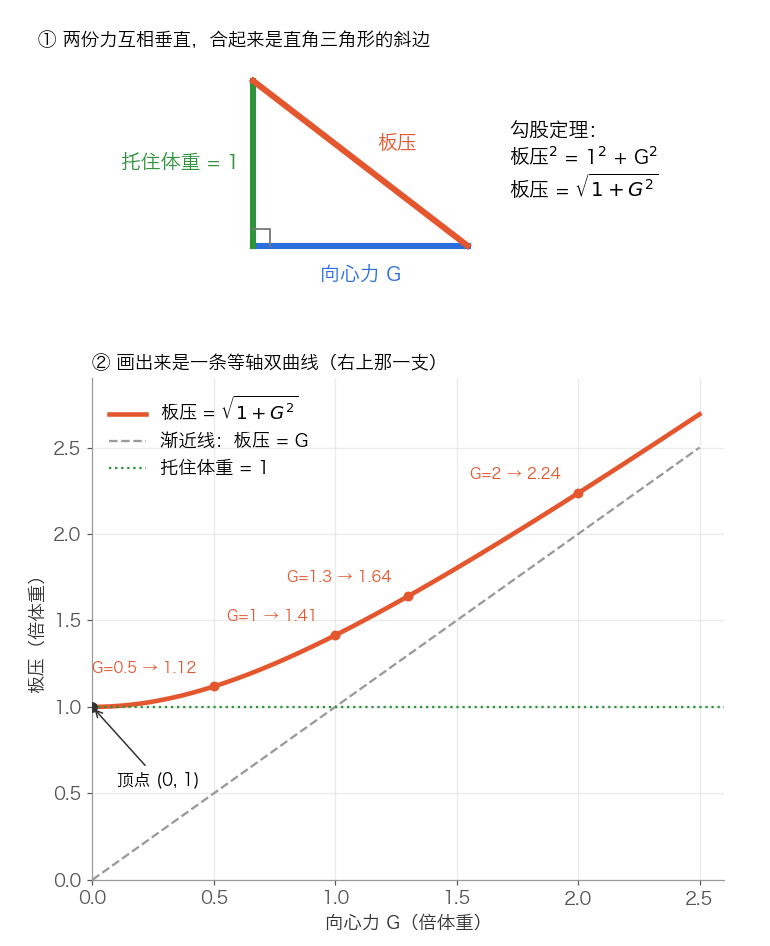
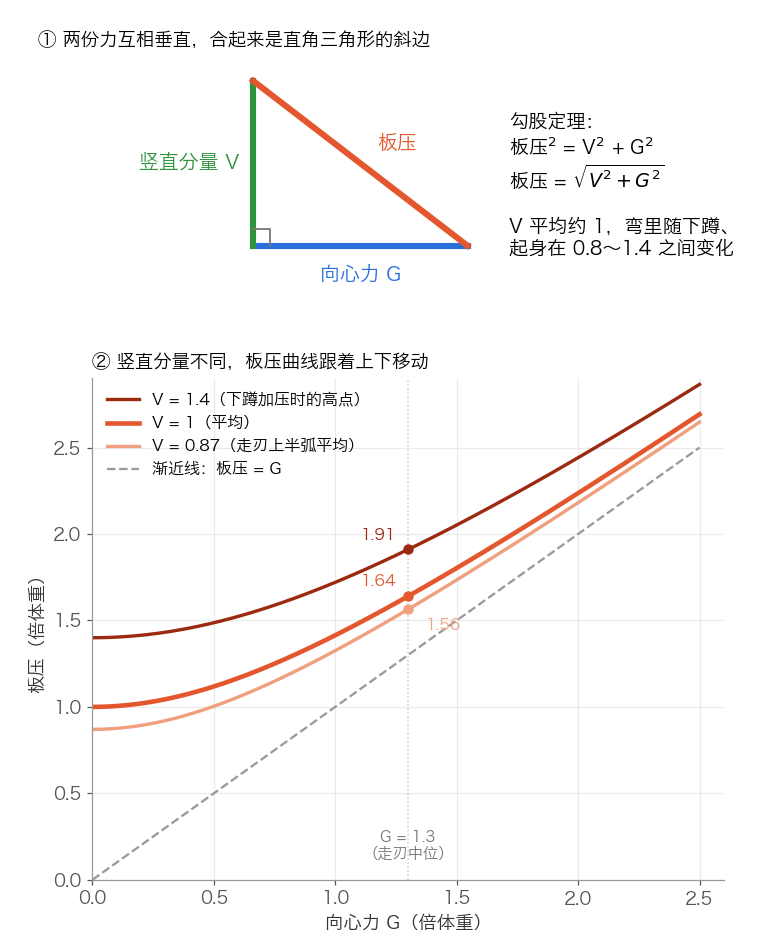
board pressure curve uses vertical component V (family of curves)

diff --git a/index.html b/index.html
@@ -97,22 +97,22 @@
     <div class="formula">板压 = √(竖直分量² + 向心力²) 倍体重</div>
     <p>竖直的一份平均下来约等于体重（1 倍），但在弯里会随下蹲、伸展上下变化：屈膝下压时变重，起身时变轻，这就是专题第 14 页「体重秤」讲的那部分额外压力。我们的数据里，走刃时上半弧竖直分量平均约 0.87 倍体重，下半弧约 0.98 倍，弯里最高可以超过 1.4 倍。</p>
     <img src="img/f1a_force.png?v=2" alt="从滑手身后看一个左转的弯：雪对板的支撑力拆成托住体重和向心力两部分" loading="lazy">
-    <p>下面先把竖直分量按平均值 1 倍体重来看，方便理解两者的关系：</p>
-    <img src="img/f1b_curve.png" alt="勾股三角形与等轴双曲线：板压 = √(1 + 向心力²)" loading="lazy">
+    <p>竖直分量不是固定的，所以板压和向心力的关系不是一条线，而是一组随竖直分量上下移动的曲线：</p>
+    <img src="img/f1b_curve.png?v=2" alt="勾股三角形与一组板压曲线：板压 = √(竖直分量² + 向心力²)" loading="lazy">
     <div class="math">
-      <p><b>这是一条什么曲线？</b>两份力互相垂直，所以板压就是直角三角形的斜边（勾股定理）。把公式两边平方：</p>
-      <div class="formula">板压² − 向心力² = 1</div>
-      <p>这是一条<b>等轴双曲线</b>：两条轴一样长（都是 1），对称轴是纵轴，开口朝上下。这里只用到右上那一支（向心力 ≥ 0，板压 ≥ 1）。它有三个好记的特点：</p>
+      <p><b>怎么读这张图？</b>两份力互相垂直，板压就是直角三角形的斜边（勾股定理）。竖直分量 V 每变一次，曲线就整体上下挪一档。它有三个好记的特点：</p>
       <ul>
-        <li><b>顶点在 (0, 1)</b>：不转弯时，板压就是自己的体重。</li>
-        <li><b>起步很平</b>：向心力小的时候，板压 ≈ 1 + 向心力² ÷ 2，轻轻转弯几乎感觉不到额外的压。</li>
-        <li><b>渐近线是「板压 = 向心力」</b>：向心力大了以后，板压基本就等于向心力本身。</li>
+        <li><b>起点在 (0, V)</b>：不转弯时，板压就是竖直分量。站稳不动时等于体重；下蹲加压的那一下会更大。</li>
+        <li><b>起步很平</b>：向心力小的时候，板压 ≈ V + 向心力² ÷ (2V)，轻轻转弯几乎感觉不到额外的压。</li>
+        <li><b>渐近线是「板压 = 向心力」</b>：向心力大了以后，三条曲线都贴近它，板压基本就等于向心力本身，竖直分量的影响变小。</li>
       </ul>
       <table class="tb">
         <tr><th>向心力（倍体重）</th><td>0.5</td><td>1.0</td><td>1.3</td><td>2.0</td></tr>
-        <tr><th>板压（倍体重）</th><td>1.12</td><td>1.41</td><td>1.64</td><td>2.24</td></tr>
+        <tr><th>板压，V = 0.87（走刃上半弧平均）</th><td>1.00</td><td>1.33</td><td>1.56</td><td>2.18</td></tr>
+        <tr><th>板压，V = 1（平均）</th><td>1.12</td><td>1.41</td><td>1.64</td><td>2.24</td></tr>
+        <tr><th>板压，V = 1.4（下蹲加压的高点）</th><td>1.49</td><td>1.72</td><td>1.91</td><td>2.44</td></tr>
       </table>
-      <p class="cap">向心力越大，板压越大，两者一一对应。</p>
+      <p class="cap">同样的竖直分量下，向心力越大，板压越大，两者一一对应；同样的向心力下，下蹲加压能让板压再高一截。</p>
     </div>
     <p>所以 App 里的离心力可以直接拿来看「这个弯压得有多深」。它反映的是压出来的效果：压得越狠，弯越紧，向心力越大。速度同样会推高它，比较两个弯时放在相近速度下看会更公平。</p>
   </div>
